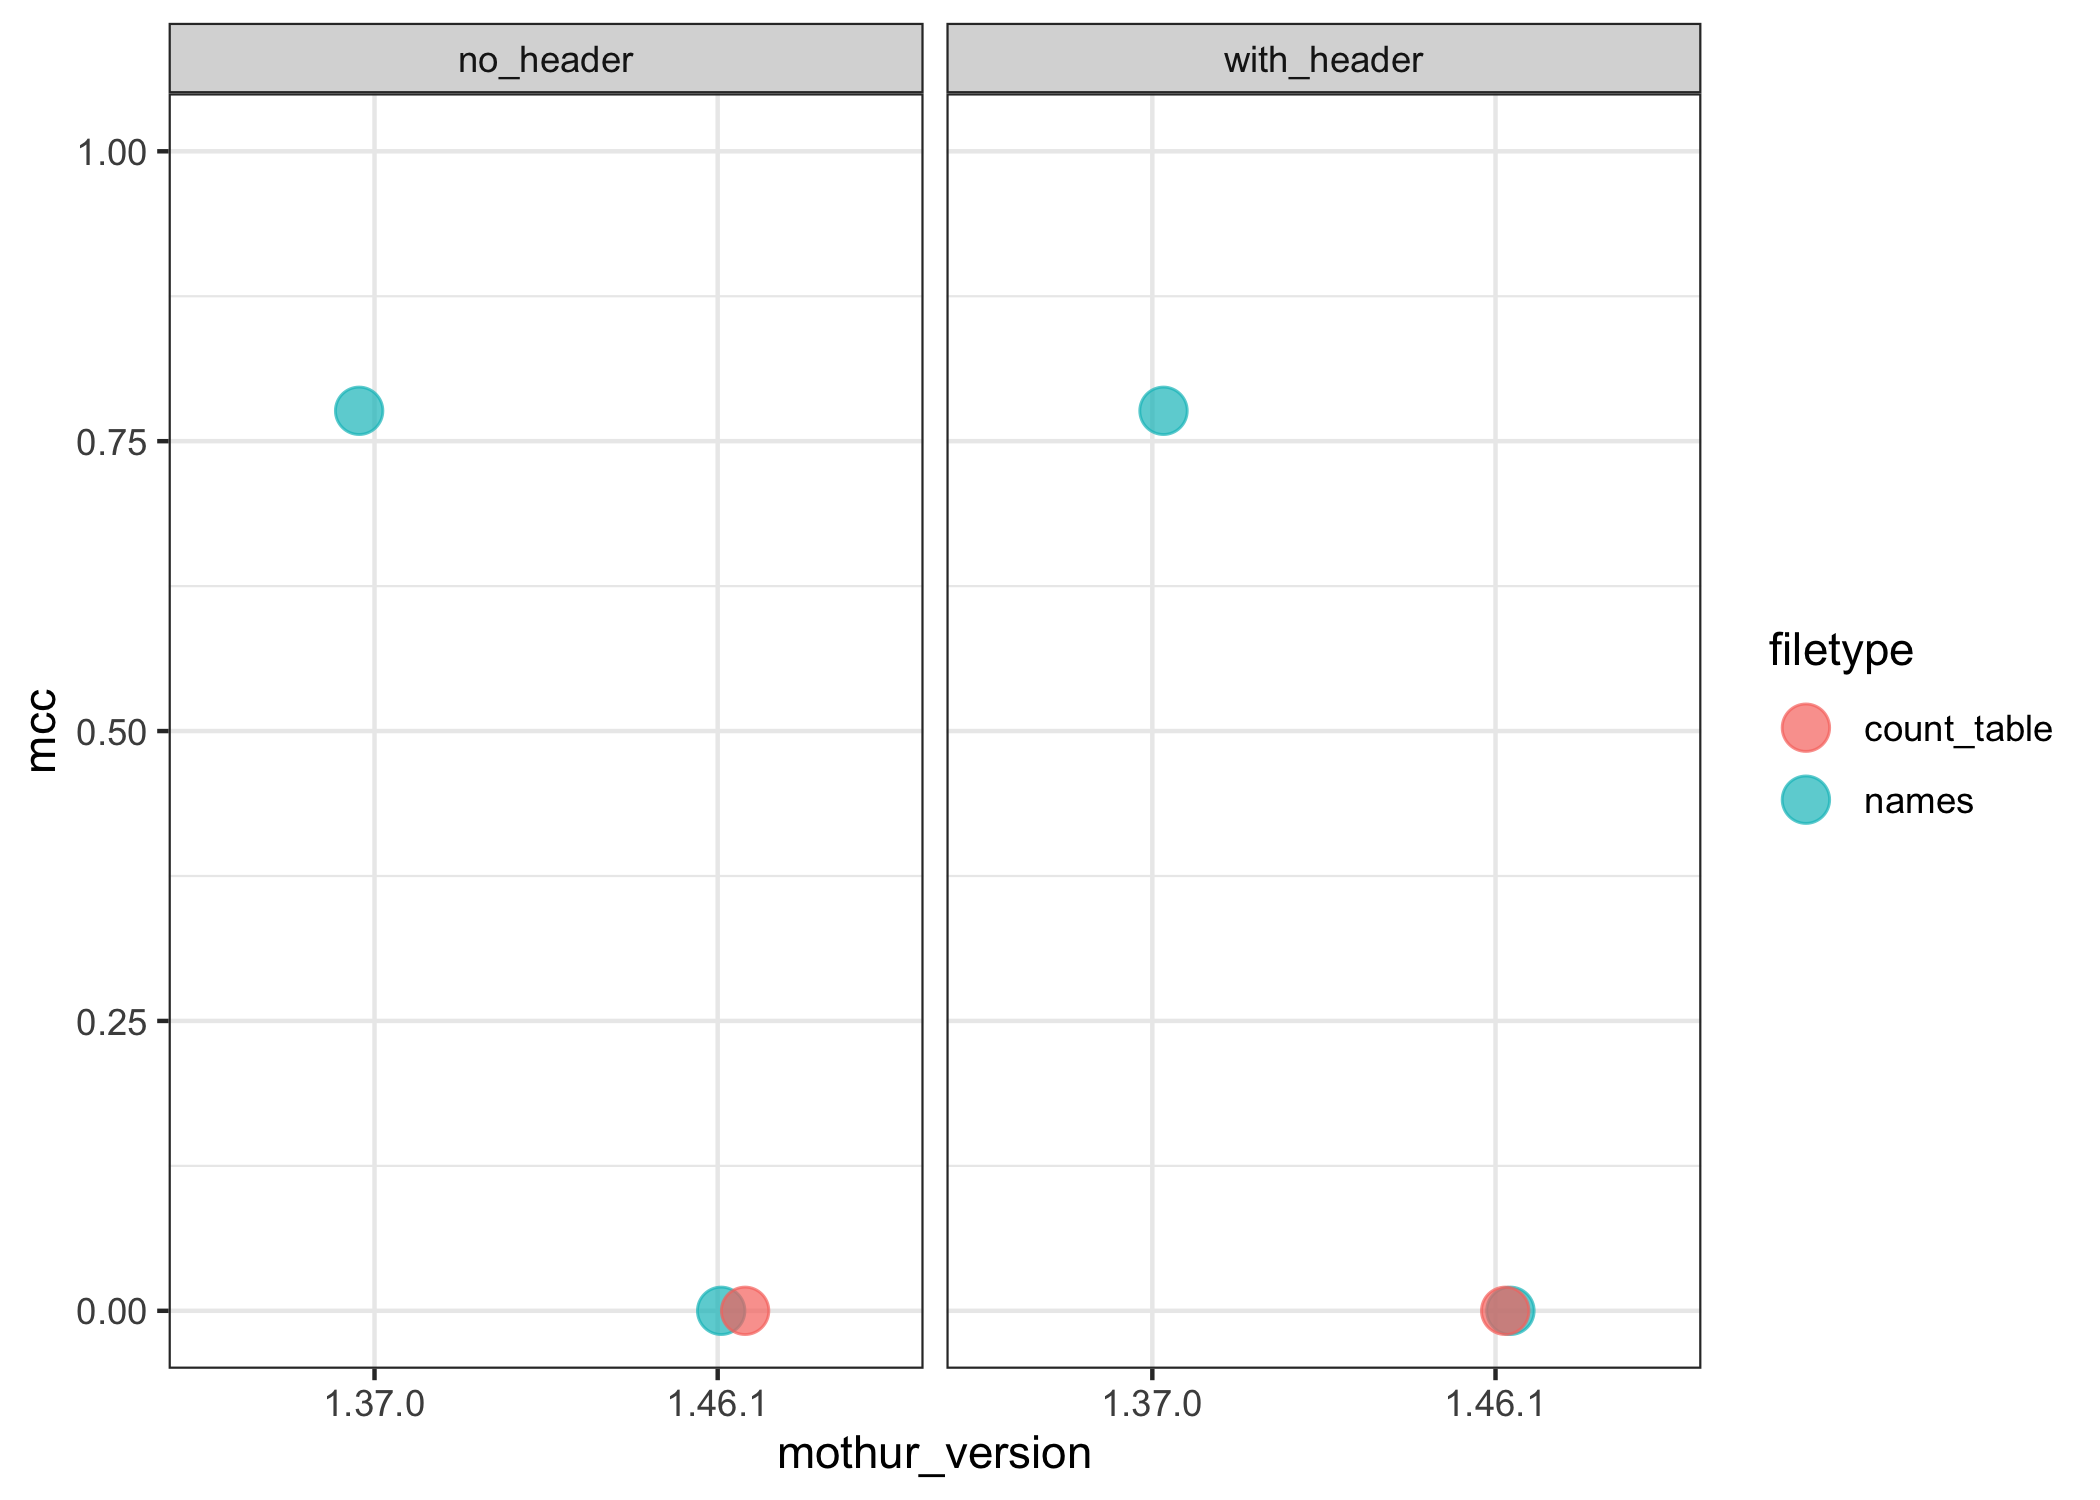
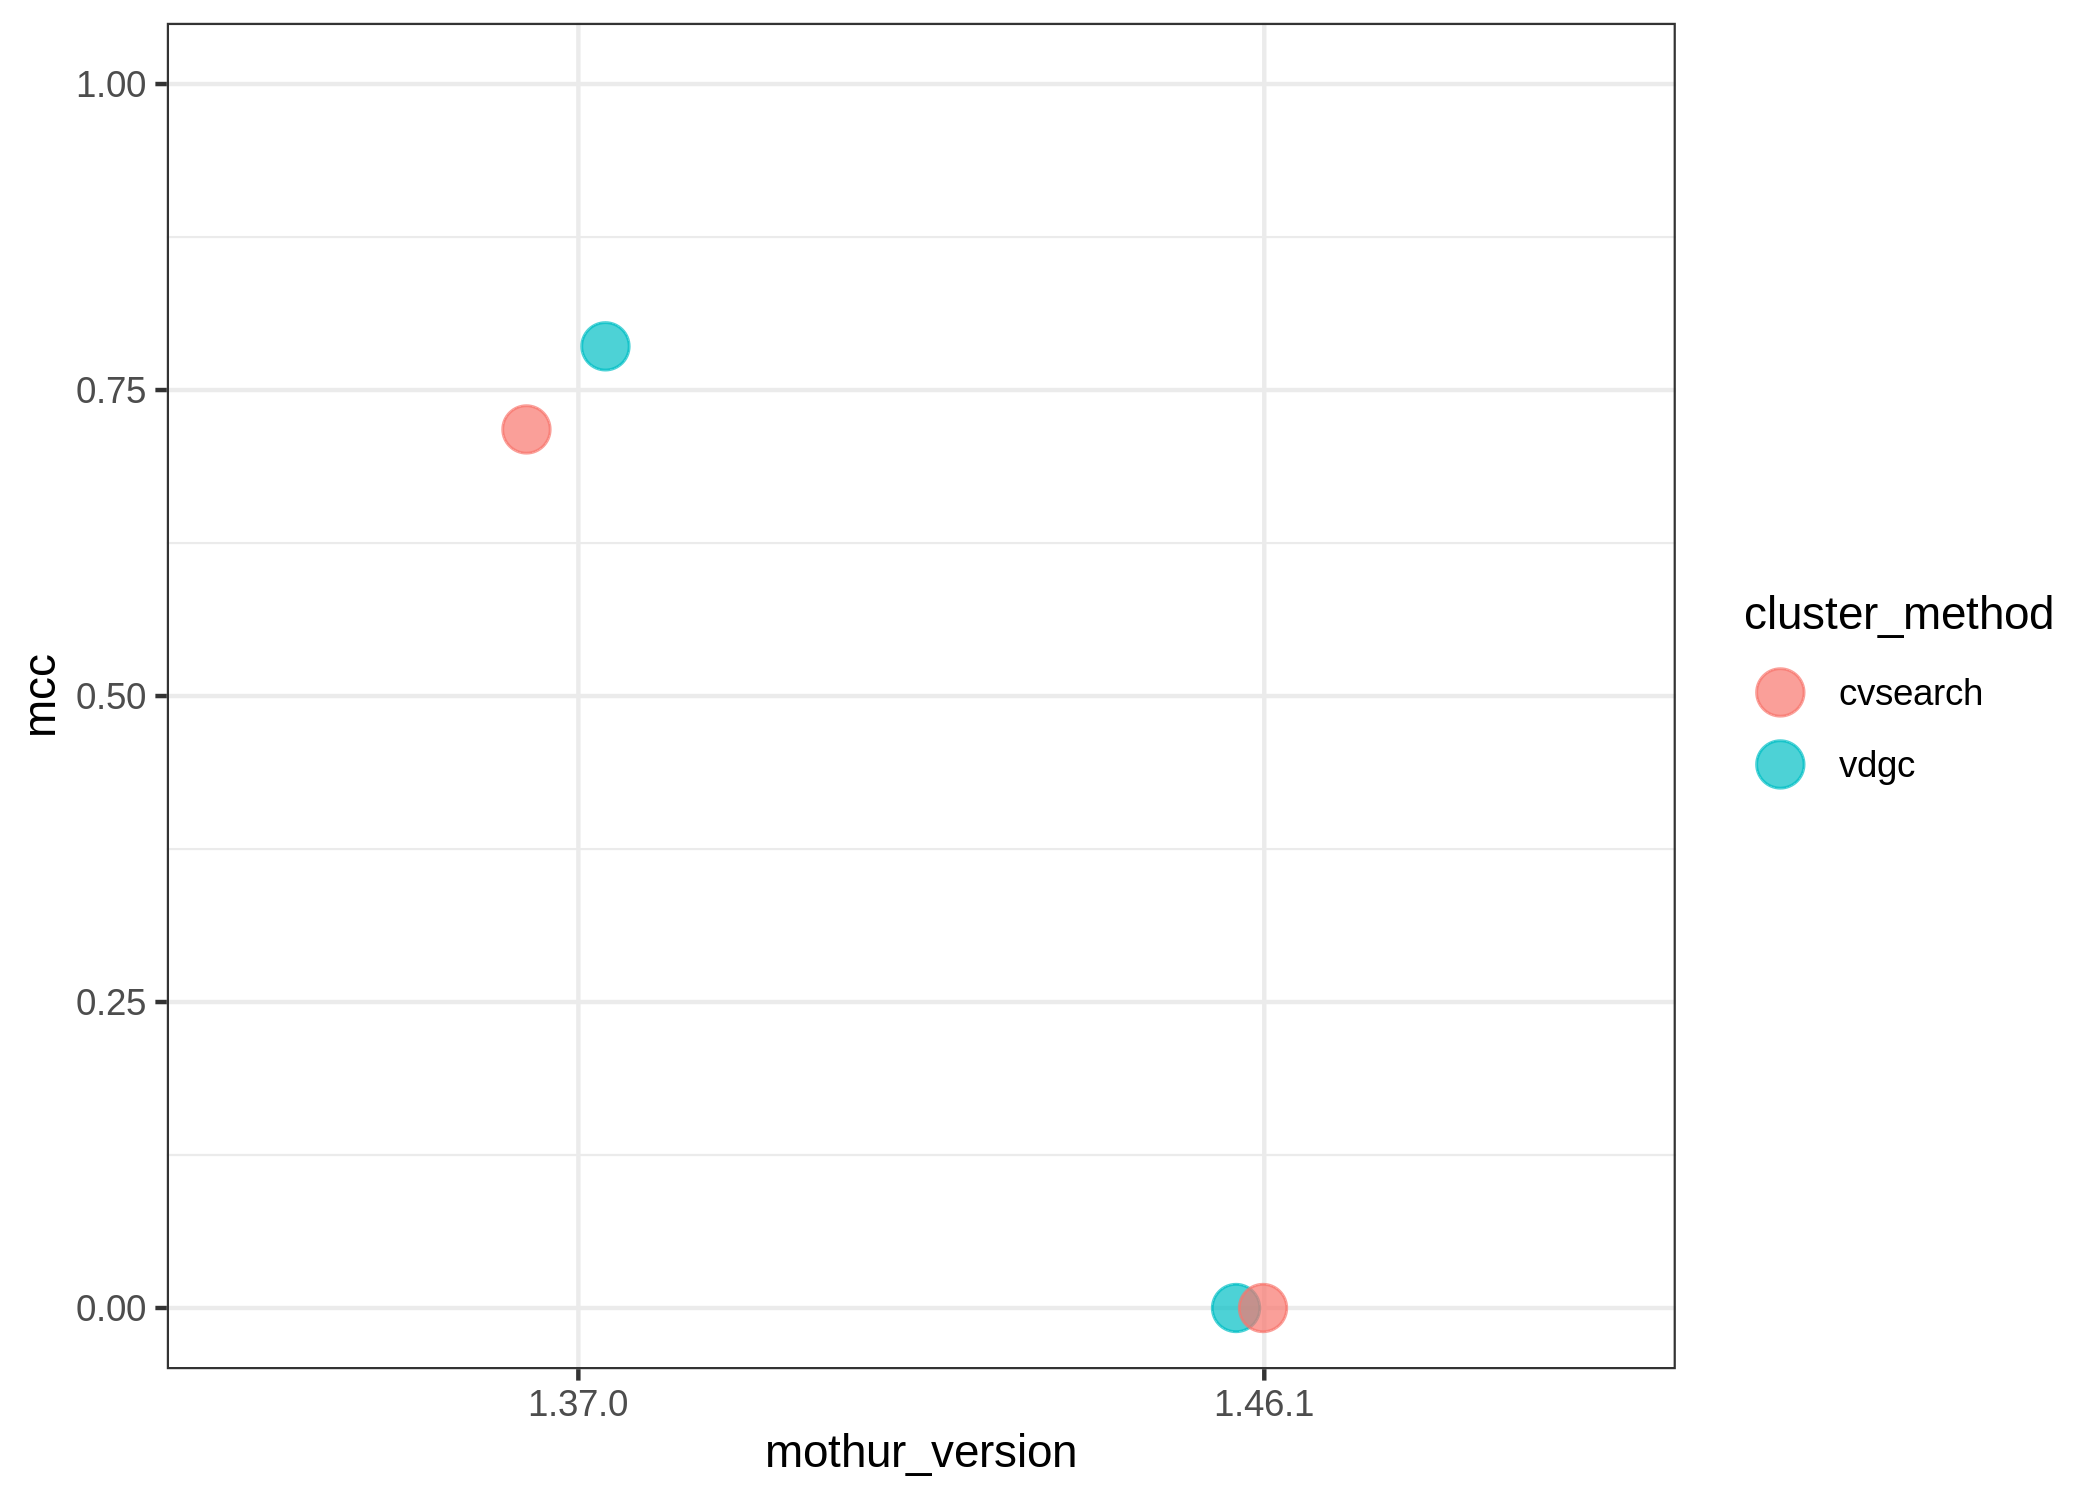
Run tests with cvsearch list file

diff --git a/README.md b/README.md
@@ -7,44 +7,51 @@ library(tidyverse)
 ```
 
 ``` r
-dat <- read_tsv(here('results', 'sensspec_concat.tsv')) %>% 
-  mutate(list_contains_header=recode(list_header,
-                                     no='with_header', with='no_header'))
+dat <- read_tsv(here('results', 'sensspec_concat.tsv'))
 ```
 
-    ## Rows: 6 Columns: 18
-
-    ## ── Column specification ────────────────────────────────────────────────────────
-    ## Delimiter: "\t"
-    ## chr  (4): label, mothur_version, list_header, filetype
-    ## dbl (14): cutoff, tp, tn, fp, fn, sensitivity, specificity, ppv, npv, fdr, a...
-
     ## 
-    ## ℹ Use `spec()` to retrieve the full column specification for this data.
-    ## ℹ Specify the column types or set `show_col_types = FALSE` to quiet this message.
+    ## ── Column specification ──────────────────────────────────────────────────────────────────
+    ## cols(
+    ##   label = col_character(),
+    ##   cutoff = col_double(),
+    ##   tp = col_double(),
+    ##   tn = col_double(),
+    ##   fp = col_double(),
+    ##   fn = col_double(),
+    ##   sensitivity = col_double(),
+    ##   specificity = col_double(),
+    ##   ppv = col_double(),
+    ##   npv = col_double(),
+    ##   fdr = col_double(),
+    ##   accuracy = col_double(),
+    ##   mcc = col_double(),
+    ##   f1score = col_double(),
+    ##   mothur_version = col_character(),
+    ##   filetype = col_character(),
+    ##   cluster_method = col_character(),
+    ##   numotus = col_double()
+    ## )
 
 ``` r
 head(dat)
 ```
 
-    ## # A tibble: 6 × 19
-    ##   label     cutoff     tp       tn      fp     fn sensitivity specificity     ppv
-    ##   <chr>      <dbl>  <dbl>    <dbl>   <dbl>  <dbl>       <dbl>       <dbl>   <dbl>
-    ## 1 userLabel   0.03 6.28e6  6.33e 8 3.23e 6 552512       0.919       0.995 6.60e-1
-    ## 2 userLabel   0.03 6.28e6  6.33e 8 3.23e 6 552512       0.919       0.995 6.60e-1
-    ## 3 userLabel   0.03 6.28e6 -1.83e11 1.83e11 552512       0.919    -287.    3.42e-5
-    ## 4 userLabel   0.03 6.28e6 -1.83e11 1.83e11 552512       0.919    -287.    3.42e-5
-    ## 5 userLabel   0.03 6.28e6 -1.83e11 1.83e11 552512       0.919    -287.    3.42e-5
-    ## 6 userLabel   0.03 6.28e6 -1.83e11 1.83e11 552512       0.919    -287.    3.42e-5
-    ## # … with 10 more variables: npv <dbl>, fdr <dbl>, accuracy <dbl>, mcc <dbl>,
-    ## #   f1score <dbl>, mothur_version <chr>, list_header <chr>, filetype <chr>,
-    ## #   numotus <dbl>, list_contains_header <chr>
+    ## # A tibble: 4 x 18
+    ##   label cutoff     tp       tn      fp     fn sensitivity specificity     ppv
+    ##   <chr>  <dbl>  <dbl>    <dbl>   <dbl>  <dbl>       <dbl>       <dbl>   <dbl>
+    ## 1 user…   0.03 6.38e6  6.32e 8 3.07e 6 5.54e5       0.920       0.995 6.75e-1
+    ## 2 user…   0.03 5.47e6  4.96e 8 2.81e 6 1.47e6       0.789       0.994 6.61e-1
+    ## 3 user…   0.03 6.38e6 -1.83e11 1.83e11 5.54e5       0.920    -288.    3.48e-5
+    ## 4 user…   0.03 5.47e6 -1.80e11 1.81e11 1.47e6       0.789    -284.    3.02e-5
+    ## # … with 9 more variables: npv <dbl>, fdr <dbl>, accuracy <dbl>, mcc <dbl>,
+    ## #   f1score <dbl>, mothur_version <chr>, filetype <chr>, cluster_method <chr>,
+    ## #   numotus <dbl>
 
 ``` r
-dat %>% ggplot(aes(x=mothur_version, y=mcc, color=filetype)) +
+dat %>% ggplot(aes(x=mothur_version, y=mcc, color=cluster_method)) +
   geom_point(position = position_jitter(width=0.1, height = 0),
              size = 5, alpha=0.7) +
-  facet_wrap("list_contains_header") +
   ylim(0,1) +
   theme_bw()
 ```
